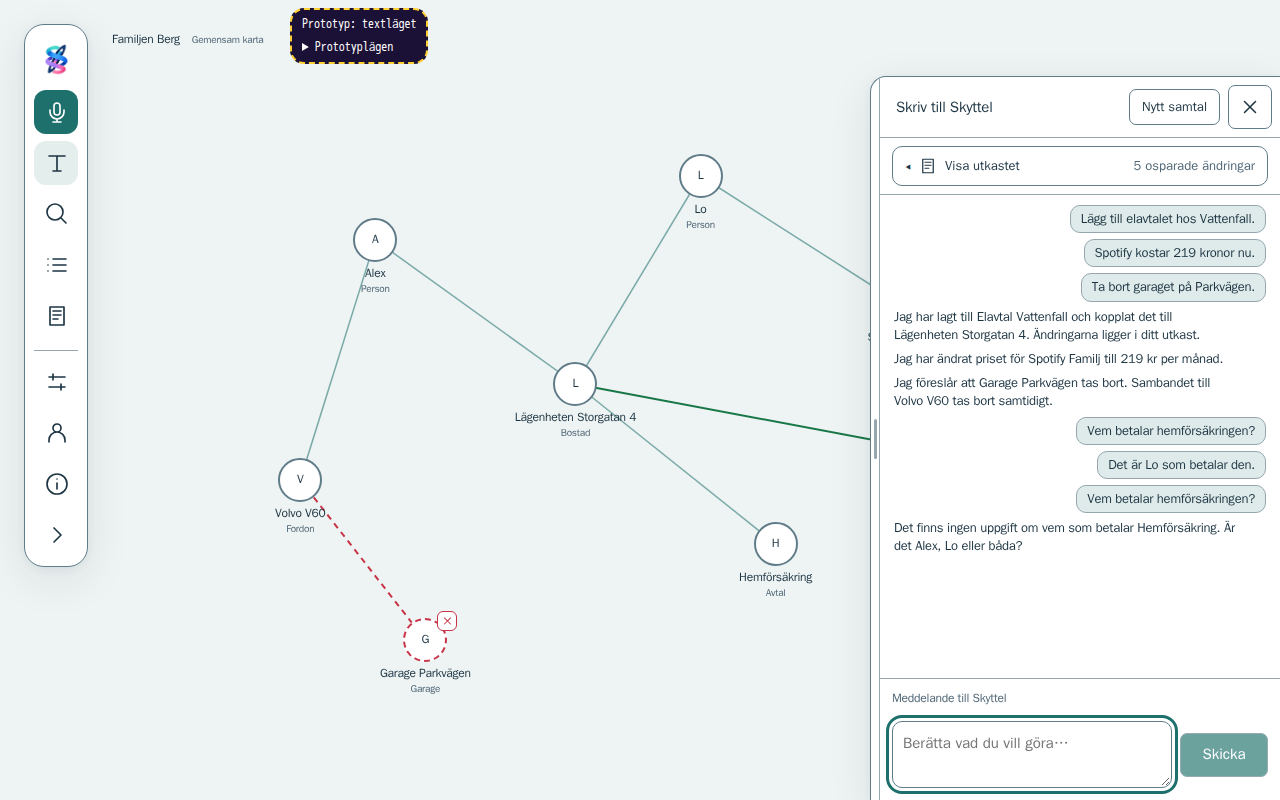
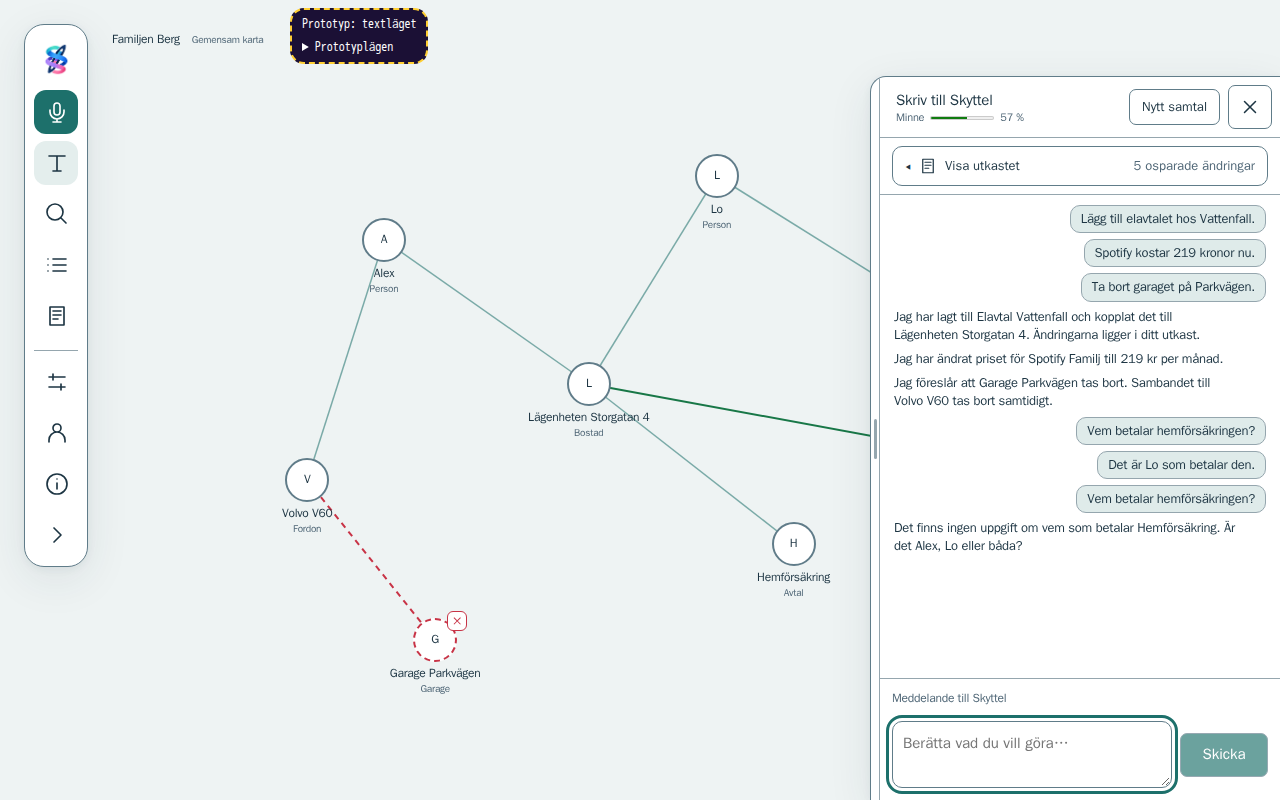
prototype: mätare för samtalets minne
Efter beställarens femte genomgång av viscalyx/skyttel#180: en mätare under
textvyns rubrik visar hur många procent av kontextfönstret som är fyllt.
Vid fullt minne är Skicka avstängd och ett meddelande pekar på Nytt samtal.
Värdena är påhittade.

diff --git a/src/client/TextModePrototype.tsx b/src/client/TextModePrototype.tsx
@@ -177,7 +177,11 @@ function useConversation(draftOpenAtStart: boolean) {
 
   const addRow = (role: Row['role'], text: string, spoken: boolean) =>
     setRows((current) => [...current, { id: nextId.current++, role, text, spoken }]);
-  const blocked = !online || unclear !== 'no';
+  // An invented measure: every row of the conversation and every draft change takes some room.
+  const [memoryForced, setMemoryForced] = useState<number | null>(null);
+  const memory = memoryForced ?? Math.min(100, 2 + rows.length * 4 + draft.length * 3);
+  const memoryFull = memory >= 100;
+  const blocked = !online || unclear !== 'no' || memoryFull;
   const busy = Boolean(working) || speaking;
   const consented = started || consentSaved;
 
@@ -284,6 +288,10 @@ function useConversation(draftOpenAtStart: boolean) {
     blocked,
     busy,
     waiting,
+    memory,
+    memoryFull,
+    memoryForced,
+    setMemoryForced,
     micDisabled,
     nextLine: script[step]?.say,
     statusWord: working
@@ -353,6 +361,7 @@ function useConversation(draftOpenAtStart: boolean) {
     },
     newConversation() {
       halt();
+      setMemoryForced(null);
       setNote('');
       setDraftOpen(draftOpenAtStart);
       setRows([
@@ -537,6 +546,15 @@ function Notices({ c }: { c: Conversation }) {
             </button>
           </span>
         </div>
+      )}
+      {c.memoryFull && (
+        <p className="tp-notice" role="alert">
+          <span className="tp-notice-symbol" aria-hidden="true">
+            !
+          </span>
+          Skyttels minne för samtalet är fullt. Välj Nytt samtal för att fortsätta. Utkastet ligger
+          kvar.
+        </p>
       )}
       {c.note && (
         <p className="tp-note" role="status">
@@ -766,6 +784,28 @@ function CloseButton({ c }: { c: Conversation }) {
   );
 }
 
+/** How full Skyttel's memory of the conversation is, as a share of the context window. */
+function MemoryMeter({ c }: { c: Conversation }) {
+  return (
+    <div
+      className="tp-meter"
+      title="Så mycket av det Skyttel kan minnas av samtalet som är fyllt. Nytt samtal tömmer minnet."
+    >
+      <span id="tp-meter-label">Minne</span>
+      <meter
+        aria-labelledby="tp-meter-label"
+        min={0}
+        max={100}
+        low={60}
+        high={85}
+        optimum={0}
+        value={c.memory}
+      />
+      <span>{c.memory} %</span>
+    </div>
+  );
+}
+
 function NewConversationButton({ c }: { c: Conversation }) {
   return (
     <button type="button" className="tp-small" onClick={c.newConversation}>
@@ -825,7 +865,10 @@ function TextView({
           />
           <div className="tp-conversation">
             <header className="tp-head">
-              <h2>Skriv till Skyttel</h2>
+              <div className="tp-title">
+                <h2>Skriv till Skyttel</h2>
+                <MemoryMeter c={c} />
+              </div>
               <NewConversationButton c={c} />
               <CloseButton c={c} />
             </header>
@@ -1111,6 +1154,20 @@ export function TextModePrototype() {
               onChange={(event) => c.setOnline(!event.target.checked)}
             />
             Bruten kontakt
+          </label>
+          <label>
+            Minne
+            <select
+              value={c.memoryForced ?? ''}
+              onChange={(event) =>
+                c.setMemoryForced(event.target.value ? Number(event.target.value) : null)
+              }
+            >
+              <option value="">Följer samtalet</option>
+              <option value="70">70 %</option>
+              <option value="90">90 %</option>
+              <option value="100">100 % (fullt)</option>
+            </select>
           </label>
           <label>
             Oklart sparande

diff --git a/src/client/text-mode-prototype.css b/src/client/text-mode-prototype.css
@@ -148,8 +148,21 @@
   padding: 8px 8px 8px 16px;
   border-bottom: 1px solid var(--space-line);
 }
-.tp-head h2 {
+.tp-title {
   flex: 1;
+  min-width: 0;
+}
+.tp-meter {
+  display: flex;
+  align-items: center;
+  gap: 6px;
+  color: var(--space-muted);
+  font-size: 11px;
+  line-height: 1.2;
+}
+.tp-meter meter {
+  width: 64px;
+  height: 8px;
 }
 .tp-wave {
   display: inline-flex;

diff --git a/src/client/text-mode-prototype-assets/README.md b/src/client/text-mode-prototype-assets/README.md
@@ -48,6 +48,7 @@ nederkant) utgick och finns kvar i grenens tidigare incheckningar.
 | Stängd textvy | Om textvyn stängs medan Skyttel arbetar med ett skrivet meddelande får knappen **Skriv till Skyttel** en liten arbetsmarkering. Markeringen ligger ovanpå knappen och ändrar inte verktygsradens plats eller bredd. |
 | Utkastlistan | En tabell som fälls ut till vänster om samtalstexten från knappen **Visa utkastet**, som har en pil åt det håll utkastet öppnas och visar antalet osparade ändringar. Knappen heter **Dölj utkastet** när utkastet är utfällt. På mobil öppnas utkastet mellan knappen och samtalstexten. |
 | Medgivanderutan | Öppnas intill den knapp i verktygsraden som valdes. |
+| Minne | En mätare under textvyns rubrik visar hur många procent av kontextfönstret som är fyllt. När minnet är fullt är **Skicka** avstängd, och ett meddelande säger att **Nytt samtal** tömmer det. Värdena i prototypen är påhittade. |
 
 ## Det här går att prova
 
@@ -85,6 +86,7 @@ annars är svåra att nå.
 | Glöm medgivandet | Första starten igen. |
 | Börja om | Prototypens utgångsläge. Manuset börjar om från första repliken. |
 | Bruten kontakt | Meddelandet med symbol och text. Mikrofonen stängs av och **Skicka** är avstängd. |
+| Minne | Mätaren vid 70, 90 eller 100 procent. Annars följer den samtalet. |
 | Oklart sparande | Skyttels egen kontroll, eller knappen **Kontrollera om utkastet sparades** när den egna kontrollen misslyckas. |
 | Pekskärm utan Escape (som iPad) | Pekskärmens beteende på en bred skärm: **Skicka** blir en stoppikon medan Skyttel arbetar, och ett meddelande åt gången. |
 | Utkastlistan som lista | Utkastlistan som lista i stället för tabell. |
@@ -115,6 +117,7 @@ annars är svåra att nå.
 | `dator-utkast-talat-arbetar.png` | Utkastlistan utfälld medan Skyttel arbetar med ett talat uppdrag. |
 | `dator-utkast.png` | Utkastlistan utfälld medan Skyttel talar. |
 | `dator-bredare.png` | Samtalstexten och utkastlistan gjorda bredare. |
+| `dator-minne-fullt.png` | Mätaren vid 100 procent, med meddelandet om fullt minne. |
 | `dator-morkt-bruten-kontakt.png` | Mörkt tema med bruten kontakt. |
 | `mobil-arbetar.png` | Mobilstorlek medan Skyttel arbetar. **Skicka** är en stoppikon. |
 | `mobil-rost-utkast.png` | Mobilstorlek med mikrofonen på och utkastlistan utfälld. |
@@ -133,7 +136,10 @@ Beställarens genomgångar den 1 oktober 2026 gav följande.
   textvyn och Skyttel arbetar, och gör annars ingenting. Meddelandefältet
   behåller fokus efter att ett meddelande har skickats.
 - På mobil enhet skickas ett meddelande åt gången, och **Skicka** blir en
-  stoppikon medan Skyttel arbetar.
+  stoppikon medan Skyttel arbetar. Mobil enhet betyder pekskärm, så en
+  iPad räknas dit.
+- Ett avbrott stoppar både det pågående arbetet och allt som väntar i kön.
+- En mätare visar hur många procent av kontextfönstret som är fyllt.
 - Om textvyn är stängd medan Skyttel arbetar med ett skrivet meddelande
   visar knappen **Skriv till Skyttel** en arbetsmarkering som inte ändrar
   verktygsradens plats eller bredd.
